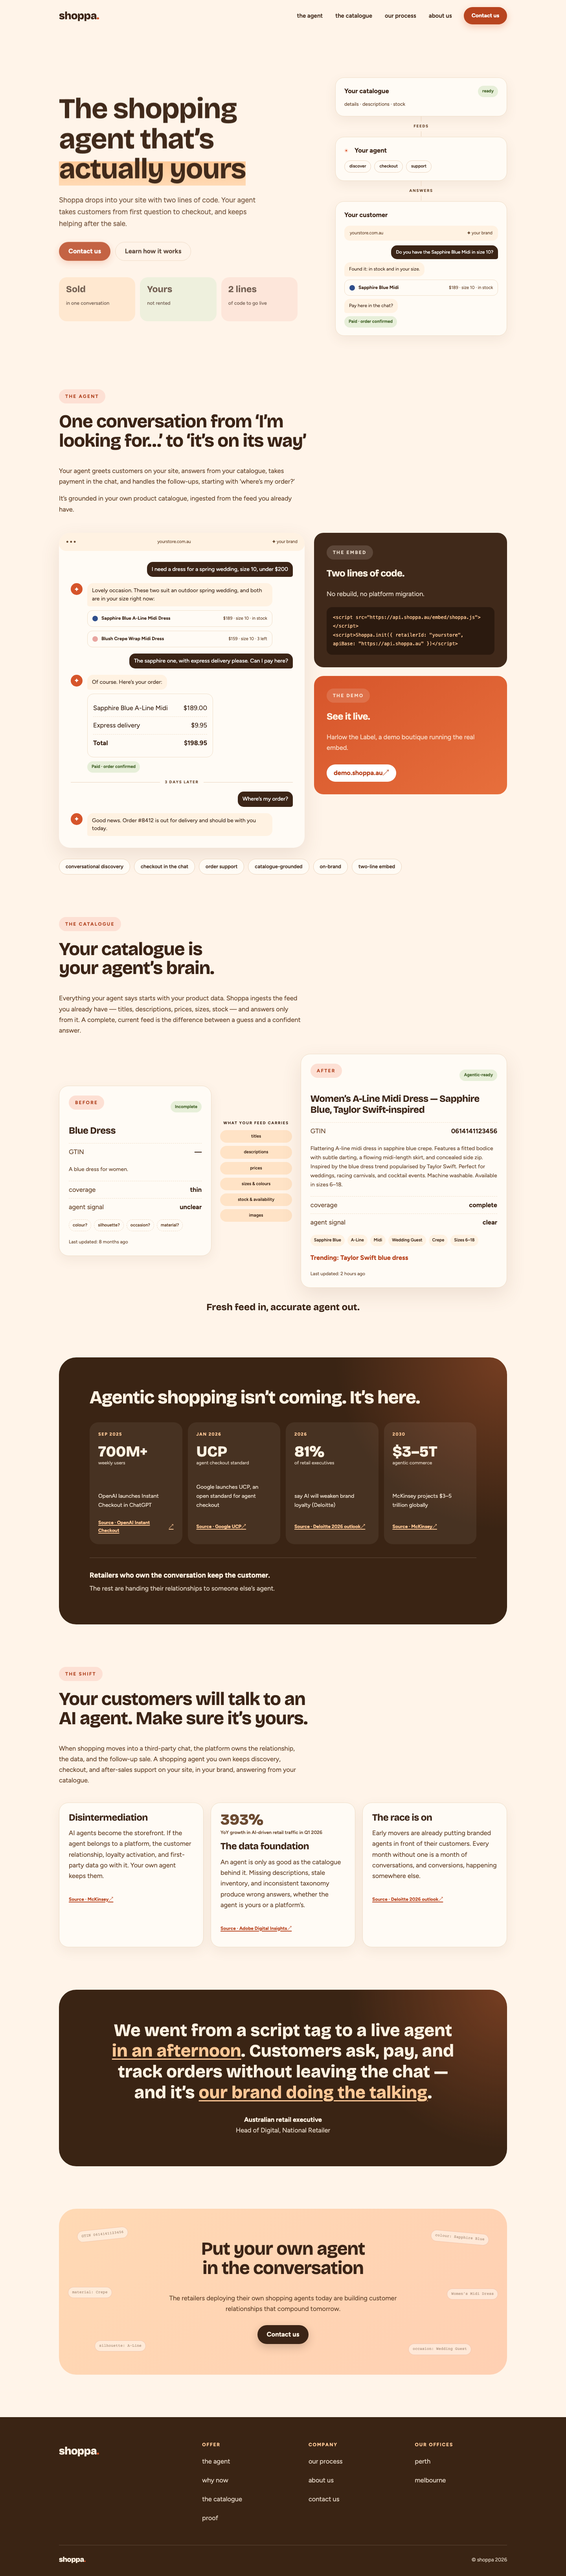
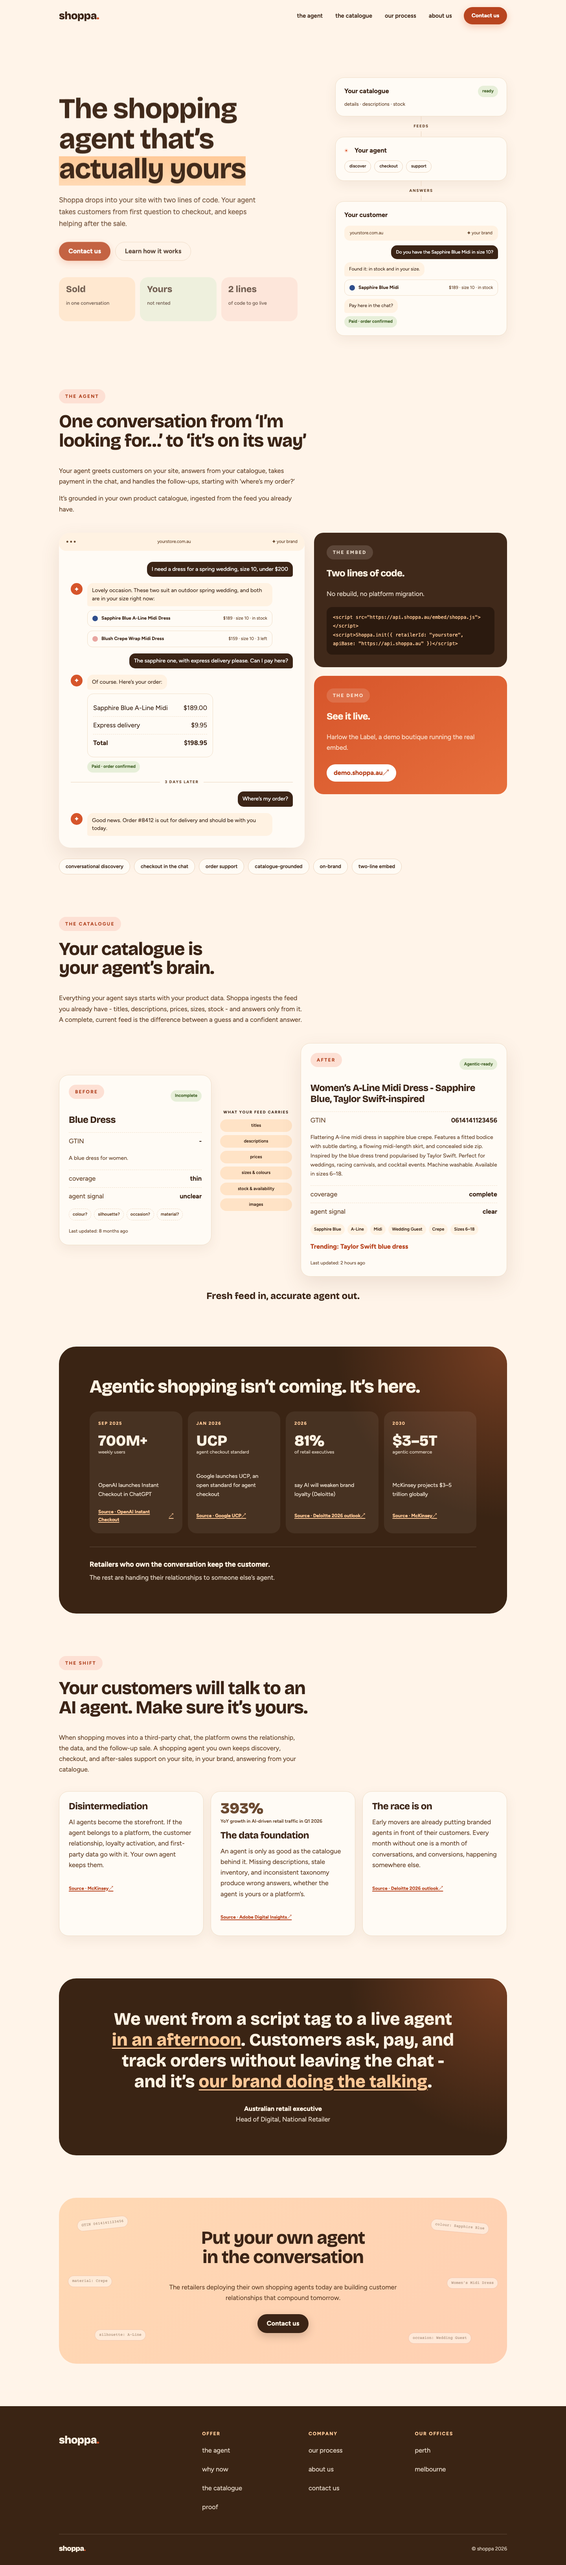
fix(site): cover the hero highlight glyphs at every width
The band was sized to 72% of the span content box and anchored to its
bottom, so its top sat below the ascenders of "actually yours" and left
an uncovered strip. Size it in em against the baseline instead: 1.06em
tall at a 0.15em offset from the text box top, which wraps the full
glyph height and still clears the descenders on the line above.

The regression test now derives the painted band from the resolved
background box and asserts glyph coverage as well as the existing
no-overlap rule, at 1440, 960, 640, 390 and 320px.

diff --git a/test/agent-accessibility.spec.ts b/test/agent-accessibility.spec.ts
@@ -31,23 +31,53 @@ for (const route of routes) {
   });
 }
 
-test('hero highlight paint clears the preceding line', async ({ page }) => {
+test('hero highlight paints over its own glyphs and clears the preceding line', async ({ page }) => {
   for (const width of [1440, 960, 640, 390, 320]) {
     await page.setViewportSize({ width, height: 900 });
     await page.goto('/', { waitUntil: 'networkidle' });
-    const overlap = await page.locator('.hero h1').evaluate((heading) => {
+    await page.evaluate(() => document.fonts.ready);
+    const bands = await page.locator('.hero h1').evaluate((heading) => {
       const highlight = heading.querySelector('.hero-highlight');
-      if (!highlight || !heading.firstChild) return true;
+      if (!highlight || !heading.firstChild) return null;
+      const styles = getComputedStyle(highlight);
+      // The computed background box is the painted band; measuring it avoids re-deriving the em values from the stylesheet.
+      const bandHeight = parseFloat(styles.backgroundSize.split(' ')[1]);
+      const bandOffset = parseFloat(styles.backgroundPositionY);
+      const context = document.createElement('canvas').getContext('2d');
+      if (!context) return null;
+      context.font = `${styles.fontWeight} ${styles.fontSize} ${styles.fontFamily}`;
+      const highlightText = context.measureText(highlight.textContent ?? '');
+      const previousText = context.measureText(heading.firstChild.textContent ?? '');
       const previous = document.createRange();
       previous.selectNodeContents(heading.firstChild);
-      const previousRects = [...previous.getClientRects()];
-      const highlightRects = [...highlight.getClientRects()];
-      return highlightRects.some((highlightRect) => {
-        const paintedTop = highlightRect.top + highlightRect.height * 0.28;
-        return previousRects.some((previousRect) => previousRect.bottom > paintedTop && previousRect.top < highlightRect.bottom && previousRect.right > highlightRect.left && previousRect.left < highlightRect.right);
+      // Ink bounds come from the baseline, which sits one font ascent below the top of each inline text box.
+      const previousInkBottoms = [...previous.getClientRects()].map((rect) => ({
+        bottom: rect.top + highlightText.fontBoundingBoxAscent + previousText.actualBoundingBoxDescent,
+        left: rect.left,
+        right: rect.right,
+      }));
+      return [...highlight.getClientRects()].map((rect) => {
+        const baseline = rect.top + highlightText.fontBoundingBoxAscent;
+        return {
+          bandTop: bandOffset + rect.top,
+          bandBottom: bandOffset + rect.top + bandHeight,
+          inkTop: baseline - highlightText.actualBoundingBoxAscent,
+          inkBottom: baseline + highlightText.actualBoundingBoxDescent,
+          previousInkBottom: Math.max(
+            ...previousInkBottoms
+              .filter((previousInk) => previousInk.right > rect.left && previousInk.left < rect.right && previousInk.bottom < rect.bottom)
+              .map((previousInk) => previousInk.bottom),
+            Number.NEGATIVE_INFINITY,
+          ),
+        };
       });
     });
-    expect(overlap, `highlight overlap at ${width}px`).toBe(false);
+    expect(bands, `highlight bands at ${width}px`).not.toBeNull();
+    for (const band of bands ?? []) {
+      expect(band.bandTop, `highlight covers ascenders at ${width}px`).toBeLessThanOrEqual(band.inkTop);
+      expect(band.bandBottom, `highlight covers descenders at ${width}px`).toBeGreaterThanOrEqual(band.inkBottom);
+      expect(band.previousInkBottom, `highlight clears the previous line at ${width}px`).toBeLessThanOrEqual(band.bandTop);
+    }
     expect(await page.evaluate(() => document.documentElement.scrollWidth)).toBeLessThanOrEqual(width);
   }
 });

diff --git a/src/styles/global.css b/src/styles/global.css
@@ -111,7 +111,9 @@ ul, ol { padding: 0; }
 .hero-copy > :nth-child(4) { animation-delay: 220ms; }
 @keyframes hero-enter { from { opacity: 0; transform: translateY(18px); } to { opacity: 1; transform: translateY(0); } }
 .hero h1 { max-width: 720px; margin-bottom: 26px; }
-.hero-highlight { padding-block: 0; background: linear-gradient(to top, var(--colour-highlight-start), var(--colour-highlight-end)) 0 100% / 100% 72% no-repeat; box-decoration-break: clone; -webkit-box-decoration-break: clone; }
+/* Size the highlight band in em from the text box top so it wraps the full glyph height (ascenders sit 0.72em above the baseline, descenders 0.19em below)
+   while its 0.15em top offset keeps it clear of the descenders on the line above. Wrapped lines stack edge to edge because the band matches line-height. */
+.hero-highlight { padding-block: 0; background: linear-gradient(to top, var(--colour-highlight-start), var(--colour-highlight-end)) 0 0.15em / 100% 1.06em no-repeat; box-decoration-break: clone; -webkit-box-decoration-break: clone; }
 .hero-subhead { max-width: 540px; margin-bottom: 30px; color: var(--colour-ink-secondary); font-size: 18px; }
 .button-row { display: flex; flex-wrap: wrap; gap: 12px; }
 .proof-pills { display: grid; grid-template-columns: repeat(3, minmax(0, 1fr)); gap: 12px; margin: 40px 0 0; list-style: none; }

diff --git a/DESIGN.md b/DESIGN.md
@@ -77,7 +77,7 @@ Approved palette roles. `src/styles/global.css` owns the exact production values
 - Body role: Figtree 400 for copy, 500–600 for meta and labels, 700 for buttons and chip text.
 - Label role: Figtree 700, 12–12.5px, letter-spacing 0.16–0.2em, uppercase, used in eyebrow pills, timeline dates, connector labels.
 - Mono role: Courier Prime, embed code blocks and code-flavoured decoration only. Never for body copy.
-- Scale (approved): hero h1 `clamp(44px, 5.6vw, 72px)` at line-height 1.06; section h2 `clamp(30px, 3.8vw, 46px)` at 1.06; panel h3 24px; body 16.5px/1.65; small meta 12–13.5px. Hero line-height is deliberately 1.06, not the prototype's 1.02 - see the highlight rule under Components.
+- Scale (approved): hero h1 `clamp(44px, 5.6vw, 72px)` at line-height 1.06; section h2 `clamp(30px, 3.8vw, 46px)` at 1.06; panel h3 24px; body 16.5px/1.65; small meta 12–13.5px. Hero line-height is deliberately 1.06, not the prototype's 1.02, and the hero highlight band is sized in em against it - see the highlight rule under Do's and Don'ts.
 - Measure and wrapping: body copy capped near 620px; hero subhead 520px; headings wrap freely with `text-wrap: balance` where supported. No truncation or ellipsis anywhere on the marketing pages.
 - Numerics and locale: en-AU. Currency as `$189` / `$189.00` exactly as the copy contract specifies; en dashes in ranges (`$3–5T`, `$100K – $500K`); `’` apostrophes in all display strings (project rule).
 
@@ -149,7 +149,7 @@ The 404 page is the only error surface: display numeral, heading, one-line body,
 
 ## Do's and Don'ts
 
-- Do render the hero highlight as a bottom-anchored background gradient on the `actually yours` span, sized to about 72% of the line box with `box-decoration-break: clone` and zero vertical padding, with hero line-height 1.06 - the prototype's full-height padded highlight collided with the ascenders/descenders of the previous line (user-reported overlap, 2026-08-18) and must not be reproduced.
+- Do render the hero highlight as a background gradient on the `actually yours` span, sized `100% 1.06em` at background position `0 0.15em` with `box-decoration-break: clone` and zero vertical padding, with hero line-height 1.06. The band must cover the whole glyph height of its own line (ascenders 0.72em above the baseline, descenders 0.19em below) and still clear the descenders on the line above: the prototype's full-height padded highlight collided with the line above (user-reported overlap, 2026-08-18) and a 72%-height band left the ascenders of `actually yours` uncovered (user-reported gap, 2026-08-19). Neither must be reproduced.
 - Do pair every status with words; never colour alone.
 - Do keep every capability claim traceable to `/Users/sacino/shoppa/AGENTS.md` / the approved copy contract before publishing it.
 - Do keep small text on dark bands at ≥ 0.75 alpha and filled primary buttons on `#B8441F`.
@@ -174,11 +174,11 @@ The 404 page is the only error surface: display numeral, heading, one-line body,
 
 ## Design Verification
 
-Current proof: the production site was built and screenshot-reviewed on 2026-08-18 across every route at 1440×900 and 390×844. Automated checks covered semantic rules, keyboard focus, colour contrast, output discovery files, overflow, and the hero highlight at widths from 320px to 1440px. Evidence is stored in `documents/verification/screenshots/`.
+Current proof: the production site was built and screenshot-reviewed on 2026-08-19 across every route at 1440×900 and 390×844. Automated checks covered semantic rules, keyboard focus, colour contrast, output discovery files, overflow, and the hero highlight band at widths from 320px to 1440px, where the band must cover its own glyphs and clear the line above. Evidence is stored in `documents/verification/screenshots/`, including `hero-highlight-<width>.png` crops.
 
 | Viewport or mode | Routes and states | Proof |
 | --- | --- | --- |
-| 1440×900 desktop | `/`, `/about/`, `/process/`, `/contact/`, `/thank-you/`, 404 | Passed full-page visual review; no horizontal overflow; hero highlight clears adjacent lines |
+| 1440×900 desktop | `/`, `/about/`, `/process/`, `/contact/`, `/thank-you/`, 404 | Passed full-page visual review; no horizontal overflow; hero highlight covers its own glyphs and clears adjacent lines |
 | 390×844 mobile | Same routes with stacked grids, collapsed header, and inset bands | Passed full-page visual review; single-column reflow and no horizontal overflow |
 | Contrast and keyboard pass | Approved colour pairs and representative links | Passed automated contrast targets and visible-focus checks |
 
